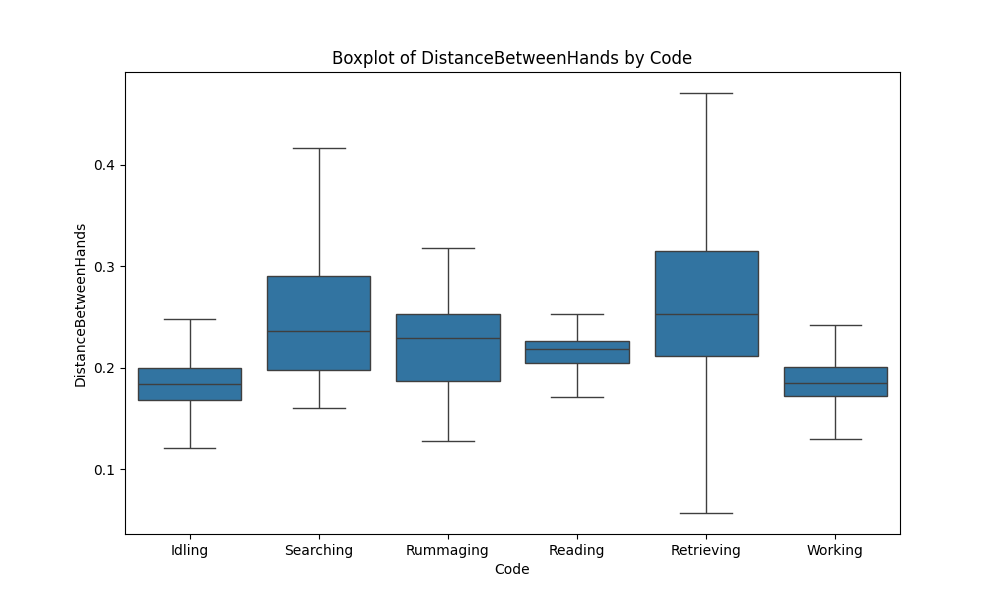
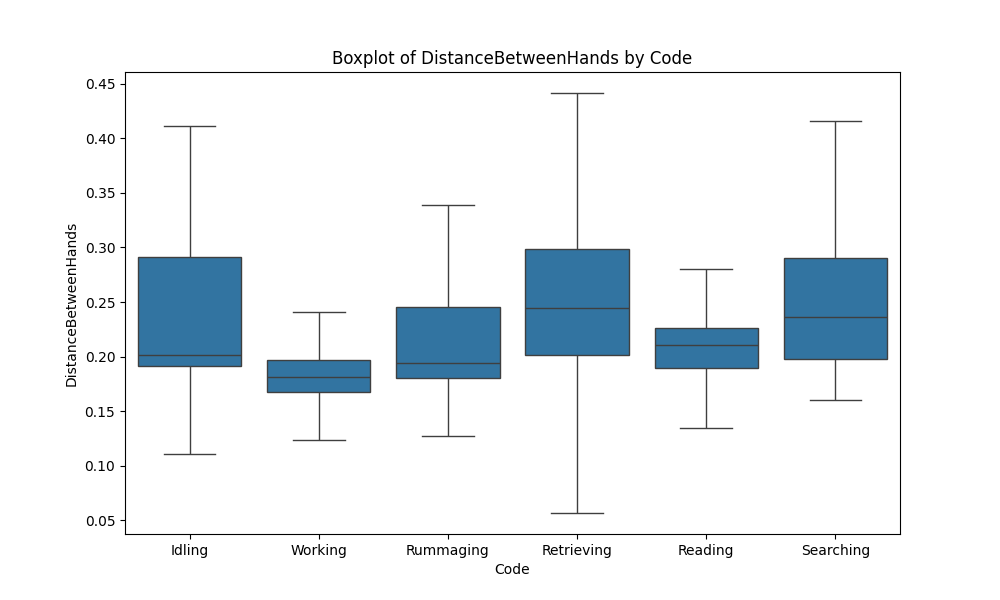
Updated for latest data

diff --git a/make_boxplots.py b/make_boxplots.py
@@ -34,7 +34,7 @@ def generate_boxplots(csv_file, columns, output_folder='BoxPlots'):
             print(f"Column '{column}' not found in the CSV file.")
 
 # Example usage
-csv_file = 'P48_Log_NEW_With_Codes_with_features.csv'
+csv_file = 'P48_Log_Features.csv'
 columns_to_plot = ['HoloRightHandDistance', 'HoloRightHandSpeed', 'HoloLeftHandDistance', 'HoloLeftHandSpeed', 'DistanceBetweenHands', 'HeadDistance', 'HeadSpeed']
 
 generate_boxplots(csv_file, columns_to_plot)

diff --git a/add_features.py b/add_features.py
@@ -85,6 +85,6 @@ def add_features(csv_file, output_file):
     data.to_csv(output_file, index=False)
 
 # Example usage
-csv_file = 'P48_Log_NEW_With_Codes.csv'
-output_file = 'P48_Log_NEW_With_Codes_with_features.csv'
+csv_file = 'P48_Log_With_Codes.csv'
+output_file = 'P48_Log_Features.csv'
 add_features(csv_file, output_file)

diff --git a/classifier.py b/classifier.py
@@ -118,5 +118,5 @@ def train_classifier(csv_file):
     plt.savefig('decision_tree.png')
 
 # Example usage
-csv_file = 'P48_Log_NEW_With_Codes_with_features.csv'
+csv_file = 'P48_Log_Features.csv'
 classifier = train_classifier(csv_file)
